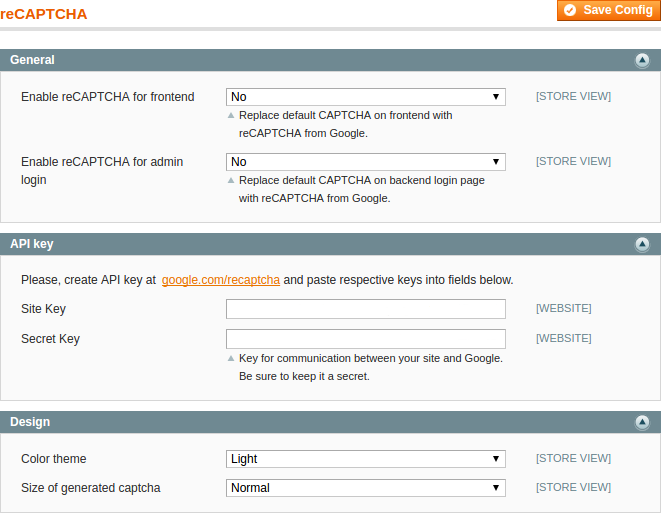
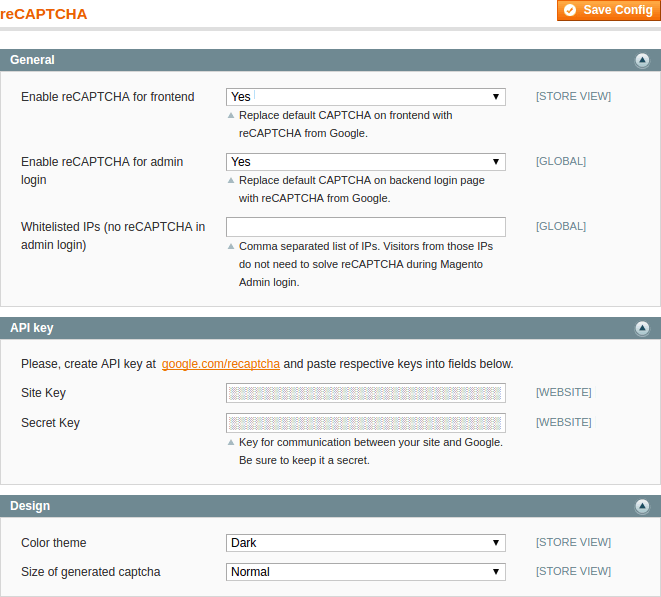
M1 reCAPTCHA manual update

diff --git a/m1/extensions/recaptcha/changelog.md b/m1/extensions/recaptcha/changelog.md
@@ -1,0 +1,27 @@
+---
+layout: default
+title: CHangelog
+description: magento recaptcha module changelog
+keywords: " magento recaptcha, recaptcha extension, changelog "
+category: reCAPTCHA
+---
+
+# Changelog
+
+### Version 1.0.2
+
+**New features:**
+
+ *  option to whitelist visitors by IP for Magento Admin login form captcha
+
+### Version 1.0.1
+
+ *  fixed error - incorrect helper class name
+ *  form id added to backend reCAPTCHA
+ *  code improvments
+
+### Version 1.0.0
+
+Initial releas.
+
+Extension replaces default Magento (Zend) captcha with Google reCAPTCHA.

diff --git a/m1/extensions/recaptcha/index.md b/m1/extensions/recaptcha/index.md
@@ -10,8 +10,9 @@ category: reCAPTCHA
 
 ![reCAPTCHA exapmles](/images/m1/extensions/recaptcha/cover.png)
 
-1. [Installation](installation/)
-2. [Extension Configuration](extension-configuration/)
+ 1. [Installation](installation/)
+ 2. [Changelog](changelog/)
+ 3. [Extension Configuration](extension-configuration/)
 
 Protect your website from spam and abuse while letting real people pass through with ease. Your customers can now attest they are human without having to solve a CAPTCHA. Instead with one click they’ll confirm they are not a robot.
 
